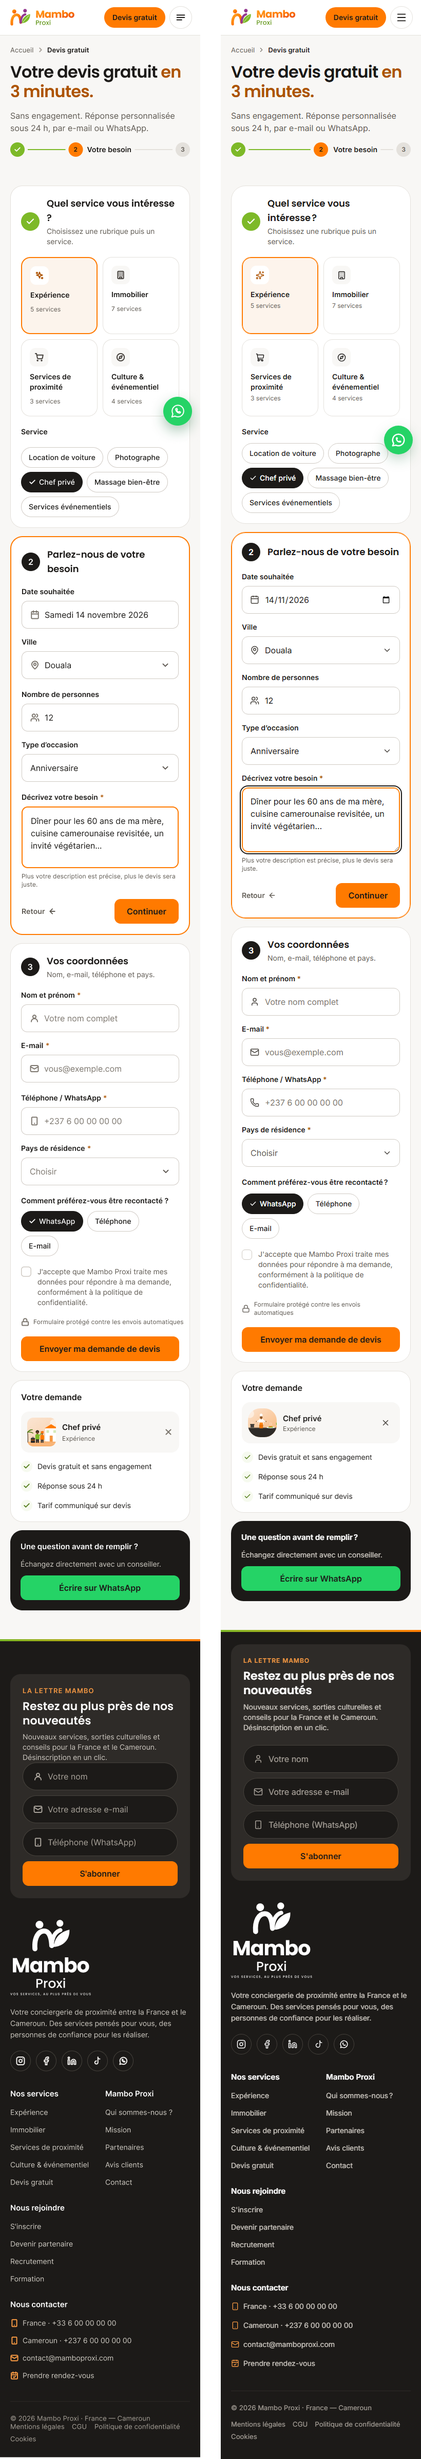
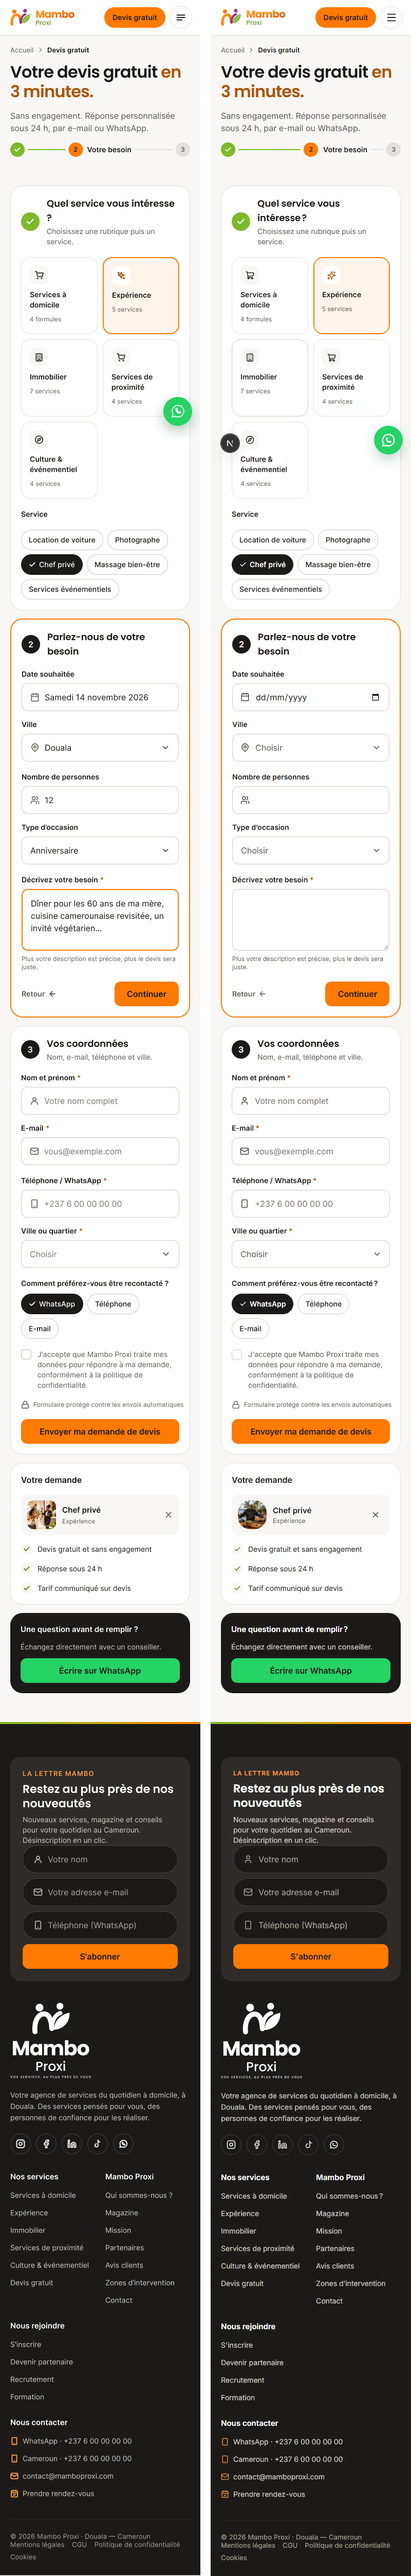
feat(devis): quartiers des zones transmis au formulaire, en-tête traduit

Changed region(s): [[0.0, 0.0, 1.0, 1.0], [0.375, 0.1246, 0.4688, 0.1869], [0.9688, 0.218, 1.0, 0.2492]]

diff --git a/src/app/[locale]/(site)/devis/page.tsx b/src/app/[locale]/(site)/devis/page.tsx
@@ -1,4 +1,5 @@
 import type { Metadata } from 'next';
+import { getTranslations } from 'next-intl/server';
 import { QuoteForm } from '@/components/forms/quote/quote-form';
 import { AccentText } from '@/components/ui/accent-text';
 import { Breadcrumb } from '@/components/ui/breadcrumb';
@@ -10,19 +11,17 @@ import { routes } from '@/lib/routes';
 import { getSiteSettings } from '@/lib/site-data';
 import { seoMetadata } from '@/lib/seo/metadata';
 
-export const metadata: Metadata = seoMetadata({
-  title: 'Devis gratuit',
-  description:
-    'Votre devis gratuit en 3 minutes : sans engagement, réponse personnalisée sous 24 h, par e-mail ou WhatsApp.',
-  path: '/devis',
-});
+export async function generateMetadata(): Promise<Metadata> {
+  const t = await getTranslations('quote');
+  return seoMetadata({ title: t('metaTitle'), description: t('metaDescription'), path: '/devis' });
+}
 
 type SearchParams = { searchParams: Promise<{ service?: string; rubrique?: string }> };
 
 /** Devis gratuit (desktop `70:8077`, mobile `70:8481`) : en-tête, progression, formulaire en 3 étapes, récapitulatif. */
 export default async function QuotePage({ searchParams }: SearchParams) {
   const query = await searchParams;
-  const [categories, settings] = await Promise.all([
+  const [categories, settings, zones, t, tRubrique] = await Promise.all([
     unwrap(
       api.GET('/v1/categories', {
         params: { query: { include: 'services' } },
@@ -30,6 +29,9 @@ export default async function QuotePage({ searchParams }: SearchParams) {
       }),
     ),
     getSiteSettings(),
+    unwrapOrNull(api.GET('/v1/zones', cached([cacheTags.zones]))),
+    getTranslations('quote'),
+    getTranslations('rubrique'),
   ]);
   // Champs dynamiques de l'étape 2 : `quoteFields` de chaque rubrique (administrables dans le back-office).
   const details = await Promise.all(
@@ -58,12 +60,12 @@ export default async function QuotePage({ searchParams }: SearchParams) {
   return (
     <div className="bg-neutral-50">
       <section className="container-site flex flex-col gap-4 pt-5 pb-4 xl:pt-12">
-        <Breadcrumb items={[{ label: 'Accueil', href: routes.home }, { label: 'Devis gratuit' }]} />
+        <Breadcrumb items={[{ label: tRubrique('home'), href: routes.home }, { label: t('breadcrumb') }]} />
         <h1 className="font-brand text-[32px] leading-[38px] font-semibold tracking-[-0.025em] text-text-main md:text-[44px] md:leading-[50px] xl:text-[52px] xl:leading-[58px]">
-          <AccentText text="Votre devis gratuit ==en 3 minutes.==" />
+          <AccentText text={t('title')} />
         </h1>
         <p className="font-ui text-[16px] leading-6 text-text-muted xl:text-[19px] xl:leading-8">
-          {frenchTypography('Sans engagement. Réponse personnalisée sous 24 h, par e-mail ou WhatsApp.')}
+          {frenchTypography(t('lead'))}
         </p>
       </section>
       <QuoteForm
@@ -71,6 +73,10 @@ export default async function QuotePage({ searchParams }: SearchParams) {
         fieldsByCategory={fieldsByCategory}
         initialCategory={presetCategory}
         initialService={presetService?.slug ?? null}
+        areas={(zones?.zones ?? []).map((zone) => ({
+          name: zone.name,
+          quarters: zone.quarters.map((quarter) => quarter.name),
+        }))}
         whatsapp={
           settings.whatsapp.enabled
             ? { number: settings.whatsapp.number, message: settings.whatsapp.message }
